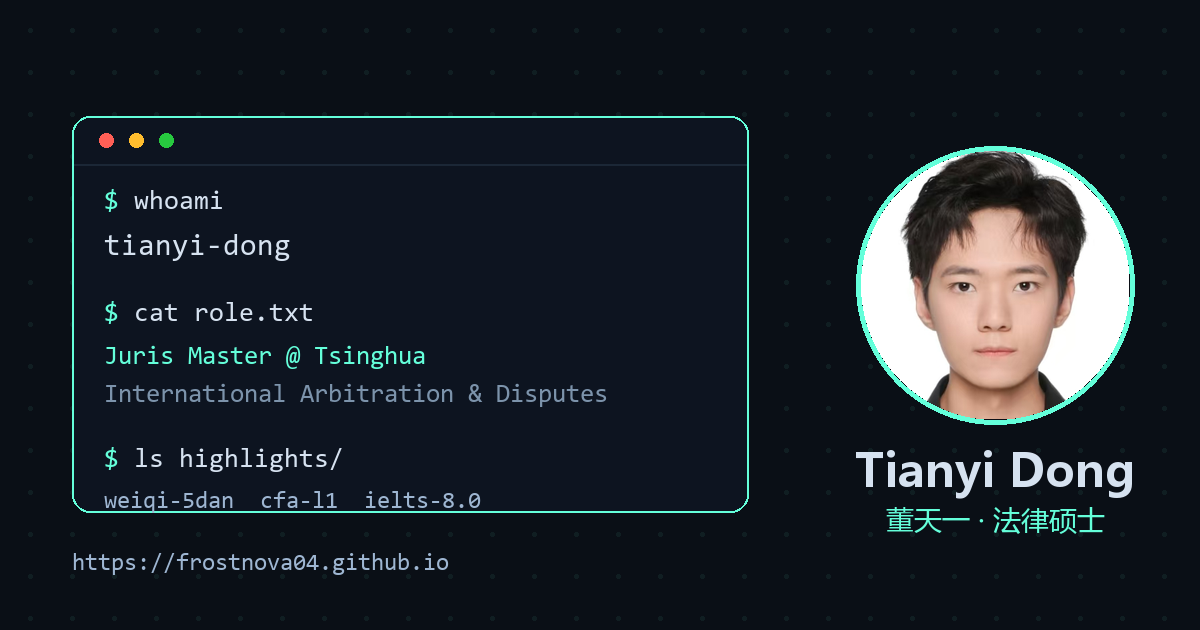
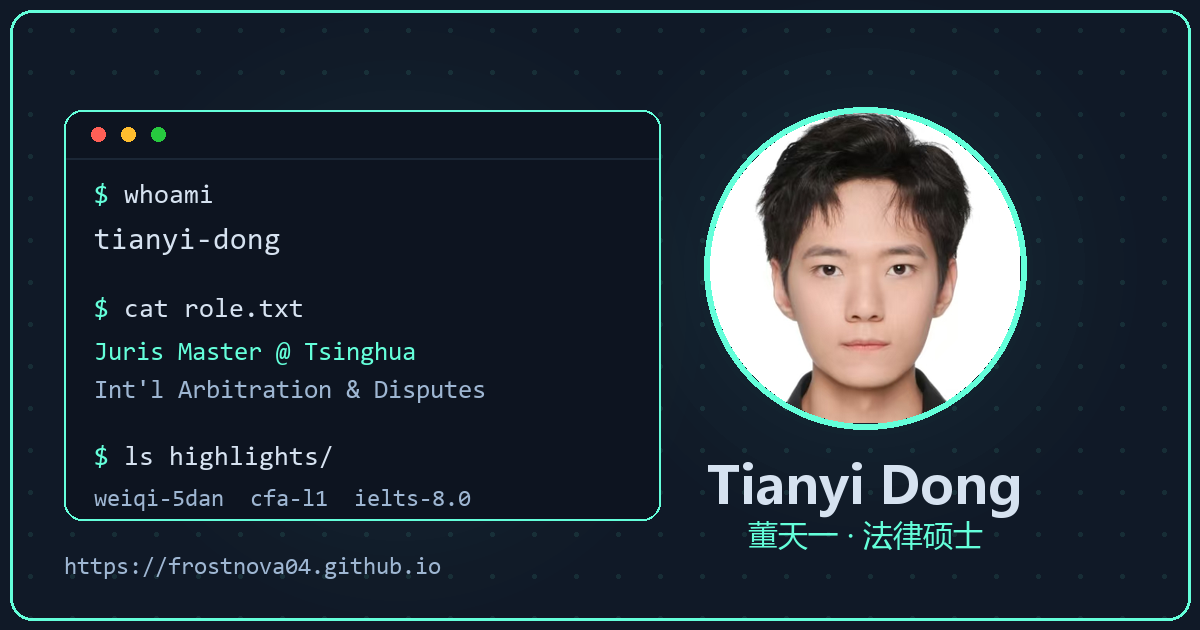
fix: brighten og-image for WeChat thumbnail; bump og:image URL to ?v=2

diff --git a/src/app/layout.tsx b/src/app/layout.tsx
@@ -54,7 +54,7 @@ export async function generateMetadata(): Promise<Metadata> {
       siteName: config.site.title,
       images: [
         {
-          url: '/og-image.png',
+          url: '/og-image.png?v=2',
           width: 1200,
           height: 630,
           alt: `${config.author.name} — ${config.site.title}`,
@@ -65,7 +65,7 @@ export async function generateMetadata(): Promise<Metadata> {
       card: 'summary_large_image',
       title: config.site.title,
       description: config.site.description,
-      images: ['/og-image.png'],
+      images: ['/og-image.png?v=2'],
     },
   };
 }

diff --git a/scripts/gen_og_card.py b/scripts/gen_og_card.py
@@ -1,13 +1,17 @@
 # -*- coding: utf-8 -*-
-"""Generate the 1200x630 og:image share card (dark geek style).
+"""Generate the 1200x630 og:image share card (dark geek style, thumbnail-friendly).
+
+WeChat/QQ thumbnails are ~60px; a near-black canvas reads as a black square at
+that size. This version brightens the background a stop, adds teal glows and a
+teal frame, and enlarges the avatar so any crop shows bright content.
 
 Run:  py scripts/gen_og_card.py
-Output: public/og-image.png
+Output: public/og-image.png (+ scripts/thumb_preview.png for small-size check)
 """
-from PIL import Image, ImageDraw, ImageFont
+from PIL import Image, ImageDraw, ImageFont, ImageStat
 
 W, H = 1200, 630
-BG = (10, 15, 22)        # #0a0f16
+BG = (16, 25, 39)        # #101927 — navy, brighter than near-black
 CARD = (13, 20, 32)      # #0d1420
 TEAL = (100, 255, 218)   # #64ffda
 WHITE = (214, 226, 240)  # #d6e2f0
@@ -22,44 +26,61 @@ yhbd = lambda s: ImageFont.truetype(F + r"\msyhbd.ttc", s)
 
 img = Image.new("RGBA", (W, H), BG)
 
+def glow(cx, cy, r, color, max_alpha):
+    """Soft radial glow via concentric ellipses on a separate layer."""
+    layer = Image.new("RGBA", (W, H), (0, 0, 0, 0))
+    gd = ImageDraw.Draw(layer)
+    steps = 24
+    for i in range(steps):
+        rr = r * (1 - i / steps)
+        a = int(max_alpha * (i / steps) ** 1.6)
+        gd.ellipse([cx - rr, cy - rr, cx + rr, cy + rr], fill=color + (a,))
+    return layer
+
+img = Image.alpha_composite(img, glow(400, 315, 360, TEAL, 26))   # behind terminal
+img = Image.alpha_composite(img, glow(865, 268, 310, TEAL, 36))   # behind avatar
+
 # ---- subtle teal dot grid ----
 grid = Image.new("RGBA", (W, H), (0, 0, 0, 0))
 gd = ImageDraw.Draw(grid)
 for gy in range(30, H, 42):
     for gx in range(30, W, 42):
-        gd.ellipse([gx - 2, gy - 2, gx + 2, gy + 2], fill=TEAL + (16,))
+        gd.ellipse([gx - 2, gy - 2, gx + 2, gy + 2], fill=TEAL + (22,))
 img = Image.alpha_composite(img, grid)
 
 d = ImageDraw.Draw(img)
 
+# ---- outer teal frame (reads as a designed card at thumbnail size) ----
+d.rounded_rectangle([10, 10, W - 10, H - 10], radius=22, outline=TEAL + (110,), width=3)
+
 # ---- left: terminal window ----
-x0, y0, x1, y1 = 72, 116, 748, 512
-d.rounded_rectangle([x0, y0, x1, y1], radius=18, fill=CARD, outline=TEAL + (70,), width=2)
+x0, y0, x1, y1 = 64, 110, 660, 520
+d.rounded_rectangle([x0, y0, x1, y1], radius=18, fill=CARD + (225,), outline=TEAL + (90,), width=2)
 # title bar dots
 for i, c in enumerate([(255, 95, 86), (255, 189, 46), (39, 201, 63)]):
     cx = x0 + 34 + i * 30
     d.ellipse([cx - 7, y0 + 24 - 7, cx + 7, y0 + 24 + 7], fill=c)
 d.line([x0 + 2, y0 + 48, x1 - 2, y0 + 48], fill=BORDER, width=2)
 
-def term(y, prompt, text, text_color, size=27, x=x0 + 32):
+def term(y, prompt, text, text_color, size=27, x=x0 + 30):
     f = mono(size)
     if prompt:
         d.text((x, y), prompt, font=f, fill=TEAL)
         x += d.textlength(prompt + " ", font=f)
     d.text((x, y), text, font=f, fill=text_color)
 
-term(188, "$", "whoami", WHITE)
-term(232, "", "tianyi-dong", WHITE, size=30)
-term(300, "$", "cat role.txt", WHITE)
-term(344, "", "Juris Master @ Tsinghua", TEAL, size=26)
-term(382, "", "International Arbitration & Disputes", GRAY, size=26)
-term(446, "$", "ls highlights/", WHITE)
-term(490, "", "weiqi-5dan  cfa-l1  ielts-8.0", LGRAY, size=24)
+term(182, "$", "whoami", WHITE)
+term(226, "", "tianyi-dong", WHITE, size=30)
+term(296, "$", "cat role.txt", WHITE)
+term(340, "", "Juris Master @ Tsinghua", TEAL, size=26)
+term(378, "", "Int'l Arbitration & Disputes", LGRAY, size=26)
+term(444, "$", "ls highlights/", WHITE)
+term(488, "", "weiqi-5dan  cfa-l1  ielts-8.0", LGRAY, size=24)
 
-# ---- right: avatar with teal ring ----
+# ---- right: avatar with teal ring (large — carries the thumbnail) ----
 av = Image.open("public/bio.jpg").convert("RGBA")
-s = 268
-cx, cy = 995, 285
+s = 310
+cx, cy = 865, 268
 side = min(av.size)
 left = (av.width - side) // 2
 top = max(0, int((av.height - side) * 0.28))  # bias toward face
@@ -67,18 +88,25 @@ av = av.crop((left, top, left + side, top + side)).resize((s, s), Image.LANCZOS)
 mask = Image.new("L", (s, s), 0)
 ImageDraw.Draw(mask).ellipse([0, 0, s, s], fill=255)
 img.paste(av, (cx - s // 2, cy - s // 2), mask)
-d.ellipse([cx - s // 2 - 5, cy - s // 2 - 5, cx + s // 2 + 5, cy + s // 2 + 5], outline=TEAL, width=5)
+d.ellipse([cx - s // 2 - 6, cy - s // 2 - 6, cx + s // 2 + 6, cy + s // 2 + 6], outline=TEAL, width=6)
 
 # ---- right: name block ----
 def center(y, text, font, color):
     w = d.textlength(text, font=font)
-    d.text(((2 * cx - w) / 2, y), text, font=font, fill=color)
+    d.text((cx - w / 2, y), text, font=font, fill=color)
 
-center(438, "Tianyi Dong", yhbd(46), WHITE)
-center(500, "董天一 · 法律硕士", yh(28), TEAL)
+center(448, "Tianyi Dong", yhbd(52), WHITE)
+center(514, "董天一 · 法律硕士", yh(30), TEAL)
 
 # ---- footer url ----
-d.text((72, 552), "https://frostnova04.github.io", font=mono(24), fill=LGRAY)
+d.text((64, 556), "https://frostnova04.github.io", font=mono(24), fill=LGRAY)
 
 img.convert("RGB").save("public/og-image.png", "PNG")
 print("saved public/og-image.png", img.size)
+
+# ---- thumbnail legibility check (WeChat-size) ----
+thumb = img.convert("RGB").resize((360, 189), Image.LANCZOS)
+thumb.save("scripts/thumb_preview.png")
+sq = img.convert("RGB").resize((64, 64), Image.LANCZOS)
+lum = sum(ImageStat.Stat(sq).mean) / 3
+print(f"64x64 mean luminance: {lum:.1f} / 255  (was ~20 before, target >= 35)")
